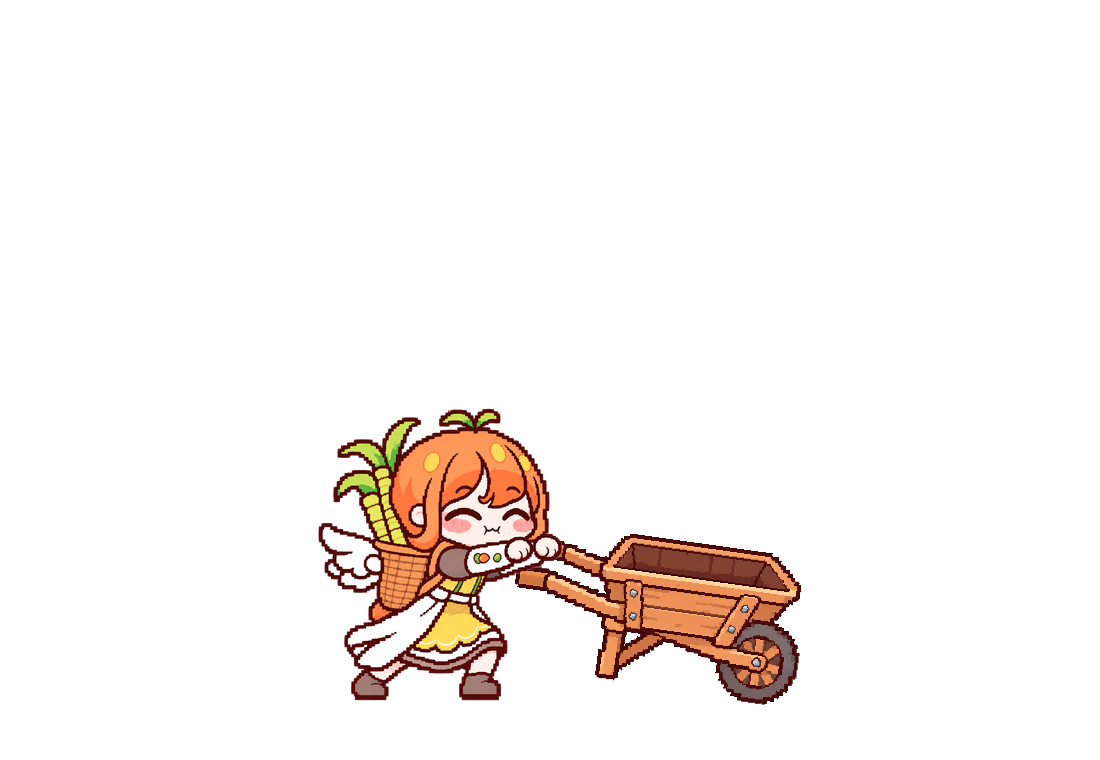
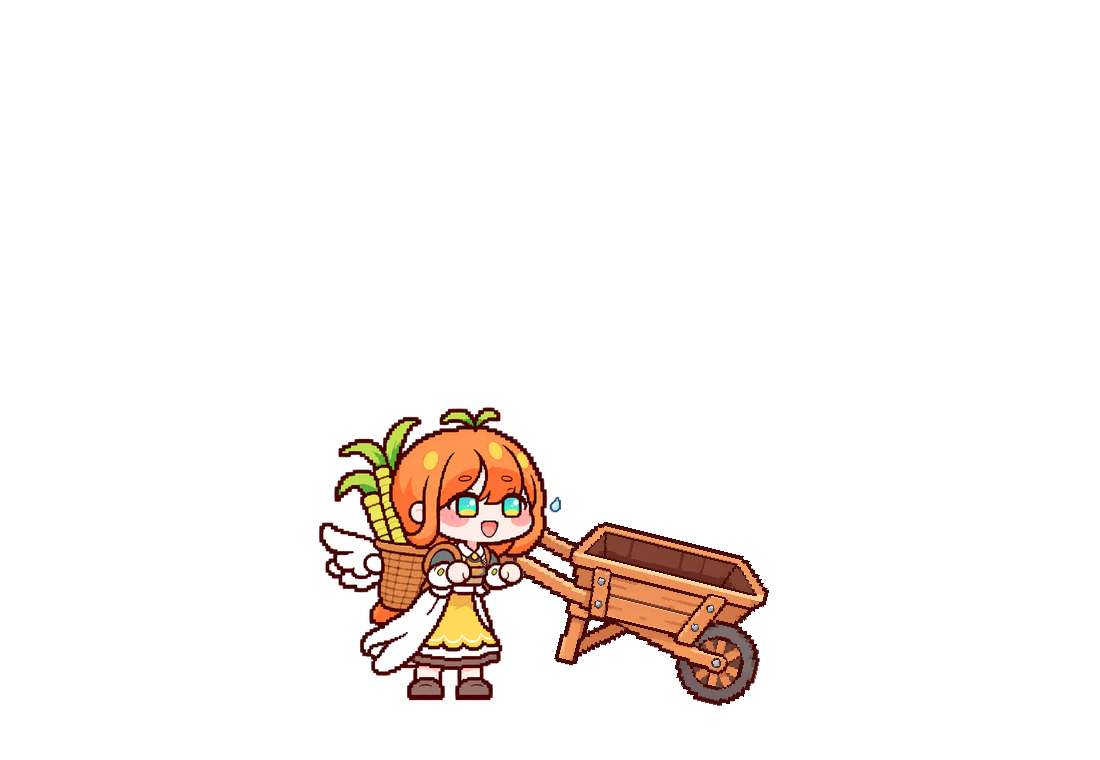
수레 비우기: 털기 빼고 들어서 쏟기만

Changed region(s): [[0.2782, 0.5145, 0.7418, 0.9382]]

diff --git a/tools/dump_compose.py b/tools/dump_compose.py
@@ -88,10 +88,9 @@ def compose_lift(pose, char_h=320, foot_x=440, wheel_x=None, want=None):
     return best, wx
 
 
-# 손잡이 들어 털어 쏟기: 캬롯은 바닥에 선 자리 그대로(발 위치 고정), 주먹 높이만큼만 수레가 기울고(최대 16° 안팎)
-# 바퀴가 그만큼 살짝 구른다. 들어올린 뒤 위아래로 덜컹덜컹 털어서 짐을 쏟는다(3번 칸부터 짐이 날아감).
-SEQ = [("push_a", 160), ("lift_crouch", 200), ("lift_up1", 160), ("lift_up2", 220), ("lift_up1", 110), ("lift_up2", 130),
-       ("lift_up1", 110), ("lift_up2", 220), ("lift_ease", 300), ("push_a", 380)]
+# 손잡이 들어 쏟기: 캬롯은 바닥에 선 자리 그대로(발 위치 고정), 주먹 높이만큼 수레가 기울고 바퀴가 그만큼 살짝 구른다.
+# 얼굴 높이까지 든 3번 칸에서 짐이 쏟아진다.
+SEQ = [("push_a", 160), ("lift_crouch", 200), ("lift_up1", 160), ("lift_up2", 650), ("lift_ease", 300), ("push_a", 380)]
 
 if __name__ == "__main__":
     meta = []

diff --git a/tools/web_extra.py b/tools/web_extra.py
@@ -138,7 +138,7 @@ def build(out_dir, stamp):
                 dt = 0.08; fl[4] += 3.2 * dt; fl[1] += fl[3] * CHAR_H * dt; fl[2] += fl[4] * CHAR_H * dt; fl[6] += fl[5] * dt
                 sc.item(c, fl[0], fl[1], fl[2], fl[6])
             put(f"x_dump_{n}", c.convert("RGB"), round(f["ms"] / steps)); n += 1
-    motions.append({"id": "barrow_dump", "title": "삭제 끝 → 손잡이 들어 털어 쏟기", "frames": out}); out = []
+    motions.append({"id": "barrow_dump", "title": "삭제 끝 → 손잡이 들어 쏟기", "frames": out}); out = []
 
     # 3) 햇님이
     hat = [load(os.path.join(A, "garden", f"hatnim_{i}.png")) for i in range(6)]
